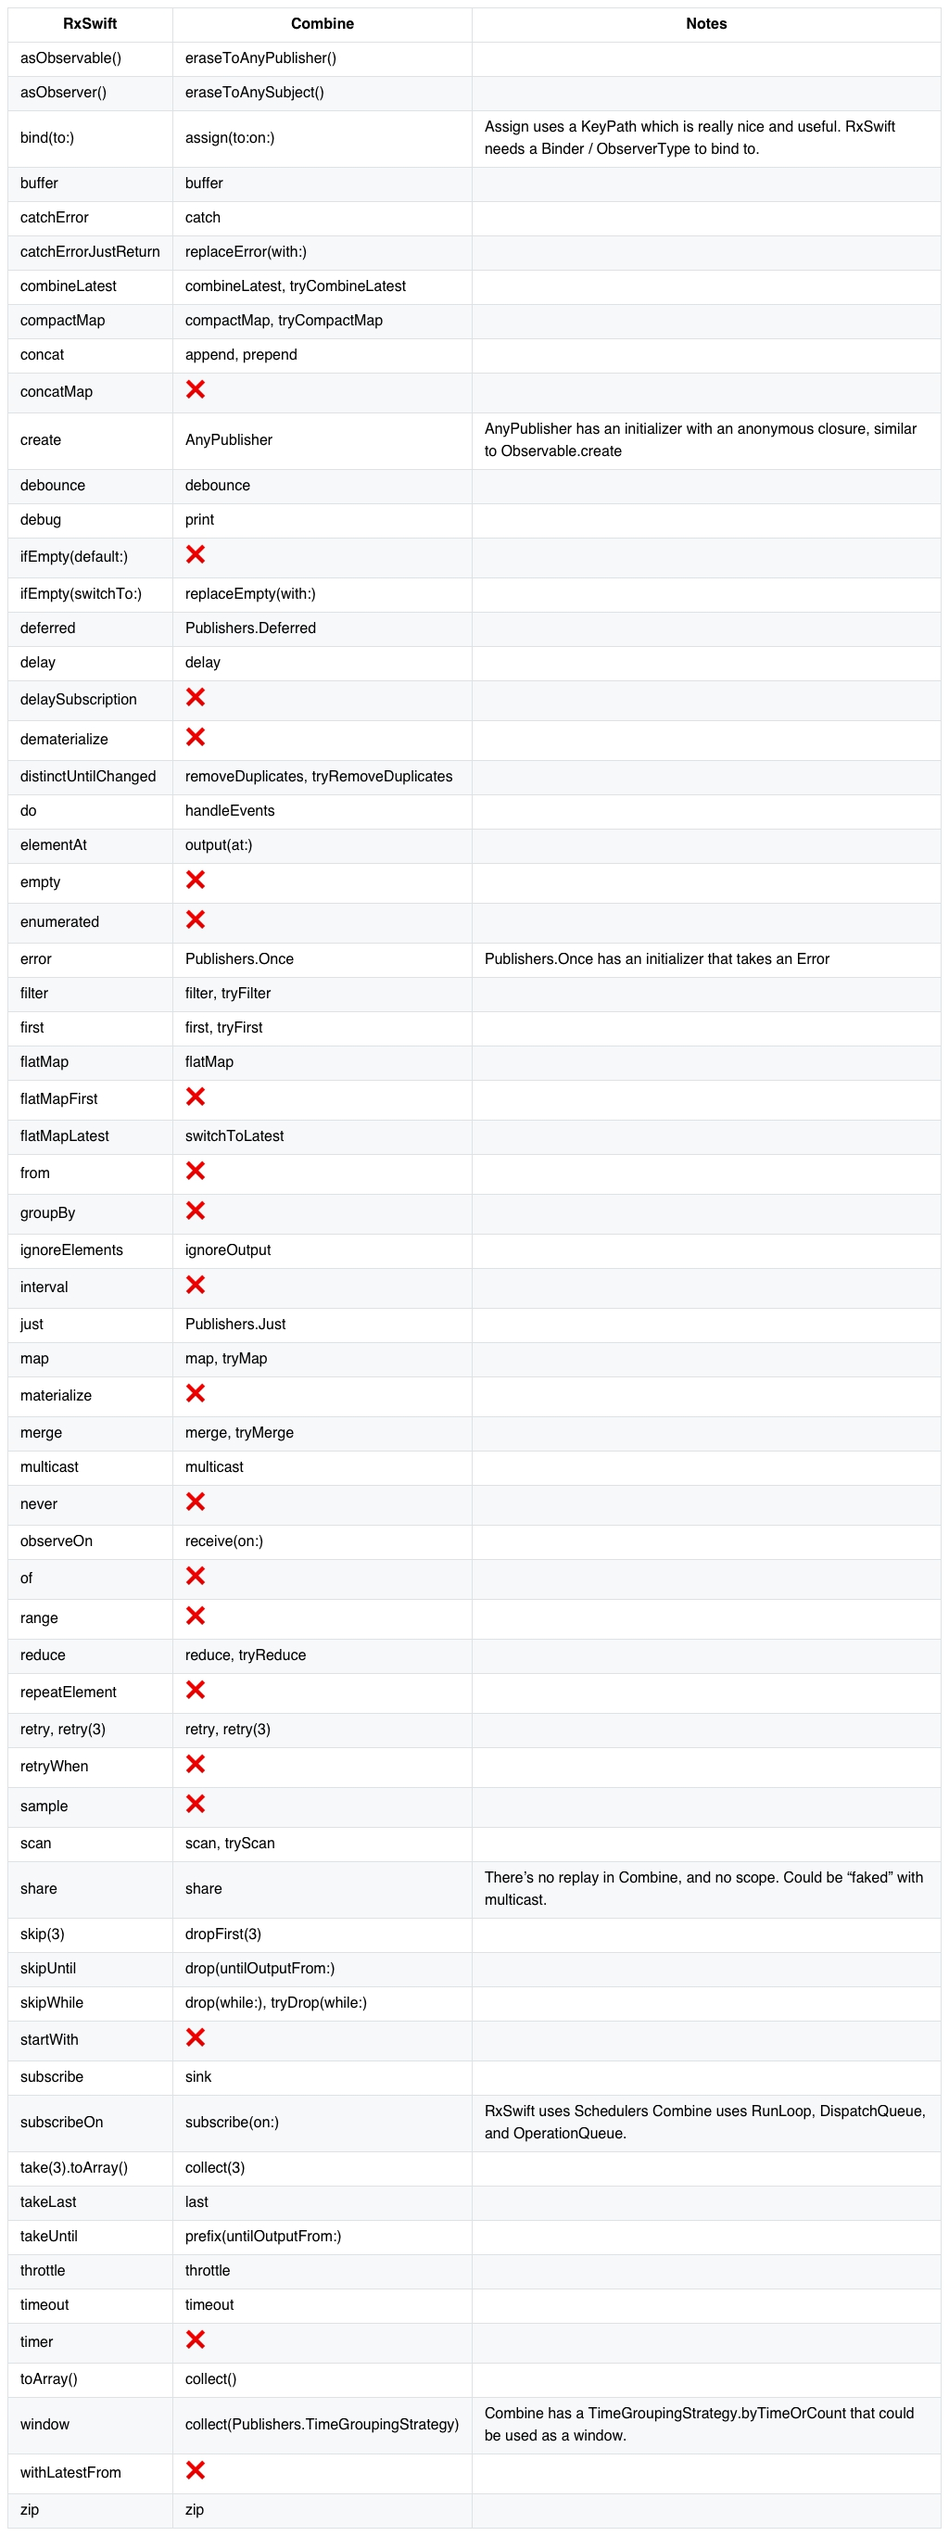
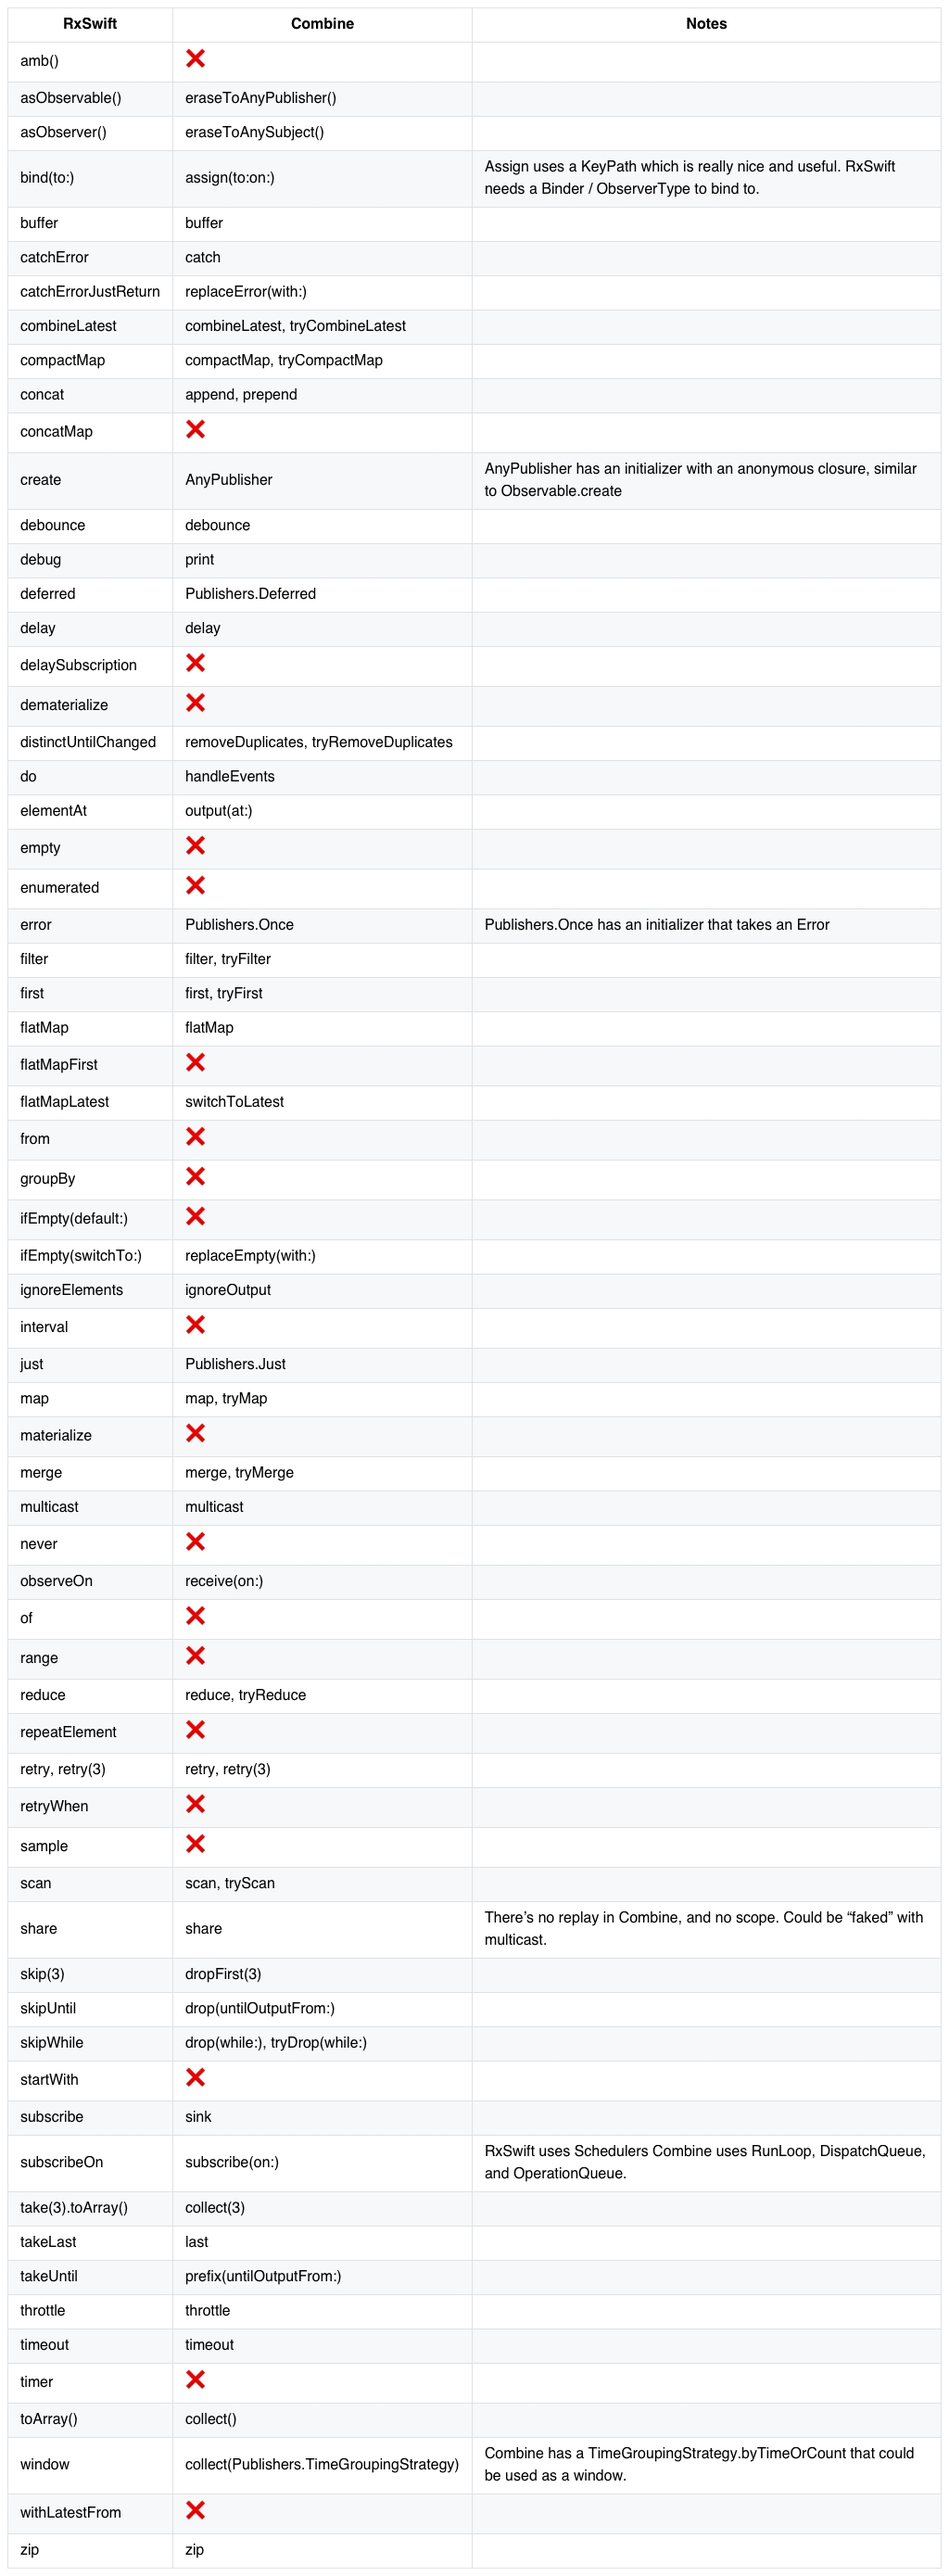
Add CSV sorting and additional core components

diff --git a/generate.rb b/generate.rb
@@ -6,6 +6,7 @@ error("csv2md is not intalled, Please run `bundle install` first") unless $?.exi
 require 'commonmarker'
 require 'imgkit'
 require 'colorize'
+require 'csv'
 
 docs = {
     "basics.csv" => "Basics",
@@ -20,9 +21,24 @@ output = "# RxSwift to Combine Cheatsheet\n" +
 puts "Rebuilding README.md ...".magenta
 
 docs.each { |file, title|
+    csv_path = "Data/#{file}"
+
+    ## Sort CSVs (aside for basics)
+    unless file == "basics.csv" then
+        csv = CSV.read(csv_path)
+        body = csv.drop(1).sort! { |a, b| a[0].to_s <=> b[0].to_s }
+        rows = body
+
+        csvOutput = CSV.generate_line(csv[0])
+        csvOutput += rows.inject([]) { |csv, row| csv << CSV.generate_line(row) }
+                         .join()
+        
+        File.write(csv_path, csvOutput)
+    end
+    
     ## Generate markdown for the specific section
-    output += "## [#{title}](Data/#{file})\n\n"
-    table = `csv2md Data/#{file}`
+    output += "## [#{title}](#{csv_path})\n\n"
+    table = `csv2md #{csv_path}`
     output += table
     output += "\n\n"
 

diff --git a/README.md b/README.md
@@ -19,22 +19,35 @@ It's based on the following blog post: [https://medium.com/gett-engineering/rxsw
 
 | RxSwift                   | Combine                  | Notes                                                                                                                                                           |
 |---------------------------|--------------------------|-----------------------------------------------------------------------------------------------------------------------------------------------------------------|
-| Observable                | Publisher                |                                                                                                                                                                 |
-| Driver                    | BindableObject (SwiftUI) | Both guarantee no failure, but Driver guarantees delivery on Main Thread. In Combine, SwiftUI recreates the entire view hierarachy on the Main Thread, instead. |
-| Single                    | Future                   |                                                                                                                                                                 |
-| Disposable                | Cancellable              | There's no DisposeBag in Combine, AnyCancellable cancels on deinit.                                                                                             |
-| Observer                  | Subscriber               |                                                                                                                                                                 |
-| ConnectableObservableType | ConnectablePublisher     |                                                                                                                                                                 |
-| SubjectType               | Subject                  |                                                                                                                                                                 |
-| PublishSubject            | PassthroughSubject       |                                                                                                                                                                 |
+| AnyObserver               | AnySubscriber            |                                                                                                                                                                 |
+| BehaviorRelay             | ❌                        | Simple wrapper around BehaviorSubject, could be easily recreated in Combine                                                                                     |
 | BehaviorSubject           | CurrentValueSubject      | This seems to be the type that holds @State under the hood                                                                                                      |
+| Completable               | ❌                        |                                                                                                                                                                 |
+| CompositeDisposable       | ❌                        |                                                                                                                                                                 |
+| ConnectableObservableType | ConnectablePublisher     |                                                                                                                                                                 |
+| Disposable                | Cancellable              |                                                                                                                                                                 |
+| DisposeBag                | ❌                        |                                                                                                                                                                 |
+| Driver                    | BindableObject (SwiftUI) | Both guarantee no failure, but Driver guarantees delivery on Main Thread. In Combine, SwiftUI recreates the entire view hierarachy on the Main Thread, instead. |
+| Maybe                     | ❌                        |                                                                                                                                                                 |
+| Observable                | Publisher                |                                                                                                                                                                 |
+| Observer                  | Subscriber               |                                                                                                                                                                 |
+| PublishRelay              | ❌                        | Simple wrapper around PublishSubject, could be easily recreated in Combine                                                                                      |
+| PublishSubject            | PassthroughSubject       |                                                                                                                                                                 |
+| ReplaySubject             | ❌                        |                                                                                                                                                                 |
+| ScheduledDisposable       | ❌                        |                                                                                                                                                                 |
 | SchedulerType             | Scheduler                |                                                                                                                                                                 |
+| SerialDisposable          | ❌                        |                                                                                                                                                                 |
+| Signal                    | ❌                        |                                                                                                                                                                 |
+| Single                    | Future                   | Single behaves differently than Future. Seems the latter has no auto-disposal when finished                                                                     |
+| SubjectType               | Subject                  |                                                                                                                                                                 |
+| TestScheduler             | ❌                        | There doesn't seem to be an existing testing scheduler for Combine code                                                                                         |
 
 
 ## [Operators](Data/operators.csv)
 
 | RxSwift              | Combine                                  | Notes                                                                                                    |
 |----------------------|------------------------------------------|----------------------------------------------------------------------------------------------------------|
+| amb()                | ❌                                        |                                                                                                          |
 | asObservable()       | eraseToAnyPublisher()                    |                                                                                                          |
 | asObserver()         | eraseToAnySubject()                      |                                                                                                          |
 | bind(to:)            | `assign(to:on:)`                         | Assign uses a KeyPath which is really nice and useful. RxSwift needs a Binder / ObserverType to bind to. |
@@ -48,8 +61,6 @@ It's based on the following blog post: [https://medium.com/gett-engineering/rxsw
 | create               | AnyPublisher                             | AnyPublisher has an initializer with an anonymous closure, similar to Observable.create                  |
 | debounce             | debounce                                 |                                                                                                          |
 | debug                | print                                    |                                                                                                          |
-| ifEmpty(default:)    | ❌                                        |                                                                                                          |
-| ifEmpty(switchTo:)   | replaceEmpty(with:)                      |                                                                                                          |
 | deferred             | Publishers.Deferred                      |                                                                                                          |
 | delay                | delay                                    |                                                                                                          |
 | delaySubscription    | ❌                                        |                                                                                                          |
@@ -67,6 +78,8 @@ It's based on the following blog post: [https://medium.com/gett-engineering/rxsw
 | flatMapLatest        | switchToLatest                           |                                                                                                          |
 | from                 | ❌                                        |                                                                                                          |
 | groupBy              | ❌                                        |                                                                                                          |
+| ifEmpty(default:)    | ❌                                        |                                                                                                          |
+| ifEmpty(switchTo:)   | replaceEmpty(with:)                      |                                                                                                          |
 | ignoreElements       | ignoreOutput                             |                                                                                                          |
 | interval             | ❌                                        |                                                                                                          |
 | just                 | Publishers.Just                          |                                                                                                          |
